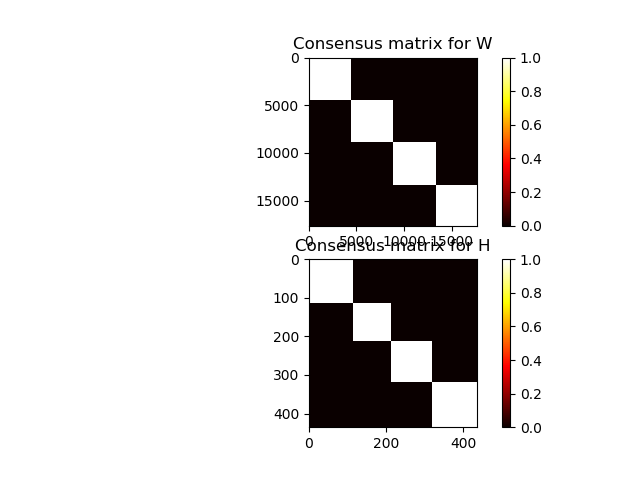
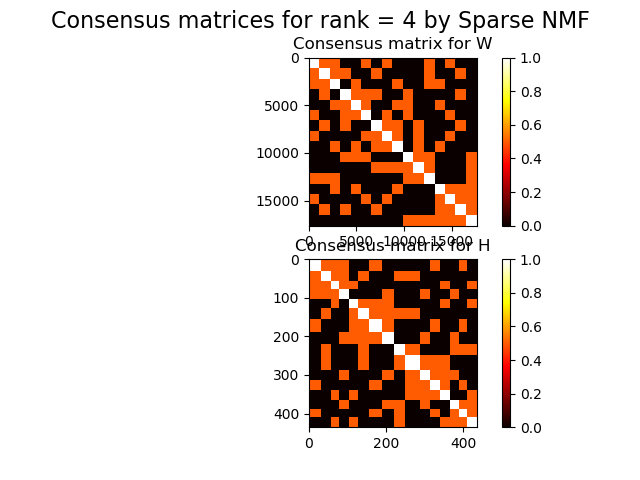
NMF is now more verbose

diff --git a/depmap-sparse/python/fn_SparseNMF.py b/depmap-sparse/python/fn_SparseNMF.py
@@ -6,31 +6,31 @@ class SparseNMF():
 	def __init__(self, X, rank, iterations, beta, sparsity):
 		self.X = X
 		self.K = rank
-		self.iter = iterations
+		self.iterations = iterations
+		self.beta = beta
+		self.sparsity = sparsity
+
+	def initializeWH(self):
 		self.W = pd.DataFrame(np.random.randint(100,size=(self.X.shape[0], self.K)))
 		self.H = pd.DataFrame(np.random.randint(0,100,size=(self.K, self.X.shape[1])))
 		self.W = preprocessing.normalize(self.W)
 		self.A = self.W.dot(self.H)
-		self.beta = beta
-		self.sparsity = sparsity
 		self.one = pd.DataFrame(np.ones((self.X.shape[0], 1)))
 		self.H = self.H.values
-		self.totalerror = 0
-		self.cycle()
-		self.err = self.totalerror/self.iter
-
-	def cycle(self):
-		for run in range(self.iter):
-			self.update()
-			self.calc_error()
 
 	def update(self):
-		self.H = np.multiply(self.H, np.divide(np.dot(preprocessing.normalize(self.W).T, np.multiply(self.X, np.power(self.A, self.beta - 2))), np.dot(self.W.T, np.power(self.A, self.beta - 1)) + self.sparsity))
-		self.A = self.W.dot(self.H)
-		self.W = np.multiply(self.W, np.divide(np.dot(np.multiply(np.power(self.A, self.beta - 2), self.X), self.H.T) + np.multiply(preprocessing.normalize(self.W), np.dot(np.dot(self.one, self.one.T), np.multiply(preprocessing.normalize(self.W), np.dot(np.power(self.A, self.beta - 1), self.H.T)))), np.dot(np.power(self.A, self.beta - 1), self.H.T) + np.multiply(preprocessing.normalize(self.W), np.dot(np.dot(self.one, self.one.T), np.multiply(preprocessing.normalize(self.W), np.dot(np.multiply(np.power(self.A, self.beta - 2), self.X), self.H.T))))))
-		self.W = preprocessing.normalize(self.W)
-		self.A = self.W.dot(self.H)
+		for run in range(self.iterations):
+			print("Update iteration = %i for rank = %i" % (run, self.K))
+			self.H = np.multiply(self.H, np.divide(np.dot(preprocessing.normalize(self.W).T, np.multiply(self.X, np.power(self.A, self.beta - 2))), np.dot(self.W.T, np.power(self.A, self.beta - 1)) + self.sparsity))
+			self.A = self.W.dot(self.H)
+			self.W = np.multiply(self.W, np.divide(np.dot(np.multiply(np.power(self.A, self.beta - 2), self.X), self.H.T) + np.multiply(preprocessing.normalize(self.W), np.dot(np.dot(self.one, self.one.T), np.multiply(preprocessing.normalize(self.W), np.dot(np.power(self.A, self.beta - 1), self.H.T)))), np.dot(np.power(self.A, self.beta - 1), self.H.T) + np.multiply(preprocessing.normalize(self.W), np.dot(np.dot(self.one, self.one.T), np.multiply(preprocessing.normalize(self.W), np.dot(np.multiply(np.power(self.A, self.beta - 2), self.X), self.H.T))))))
+			self.W = preprocessing.normalize(self.W)
+			self.A = self.W.dot(self.H)
 
 	def calc_error(self):
 		self.error = np.mean(np.mean(np.abs(self.X - self.A)))
-		self.totalerror += self.error
+
+	def runNMF(self):
+		self.initializeWH()
+		self.update()
+		self.calc_error()

diff --git a/depmap/python/get-rank.py b/depmap/python/get-rank.py
@@ -1,33 +1,48 @@
 import pandas as pd
 import numpy as np
 import matplotlib.pyplot as plt
-from fn_consensus import *
-from fn_nmf import *
+import os
 
-X = pd.read_csv(r'C:/Users/Vaibhav/nmf/inputs/portal-Avana-2018-06-08-n.csv', index_col=0, header=0, na_values='NaN')
+from fn_NMF import *
+from fn_consensus import *
+
+X = pd.read_csv(r'../../inputs/portal-Avana-2018-06-08-n.csv', index_col=0, header=0, na_values='NaN')
 X = X.fillna(0)
 mX = 1 - X.isnull()
 
-maxit = 1
-runs = 1
+iterations = 3
+trials = 2
+
+print("\nNumber of trials = %i" % trials)
+print("Number of iterations in each trial = %i\n" % iterations)
 
 for rank in range (3,31):
 	cmatrix = CMatrix(X)
 
 	error = 0
 
-	for run in range(runs):
-		jnmf = NMF(X, mX, rank, maxit)
-		error += jnmf.err
-		connW = cmatrix.calcConnectivityW(jnmf.W)
-		connH = cmatrix.calcConnectivityH(jnmf.H)
+	print("Running NMF for rank = %i\n" % rank)
+
+	for run in range(trials):
+		print("\nTrial = %i for rank = %i\n" % (run, rank))
+		nmf = NMF(X, mX, rank, iterations)
+		nmf.runNMF()
+		error += nmf.err
+		print("\nCalculating connectivity matrix for W")
+		connW = cmatrix.calcConnectivityW(nmf.W)
+		print("Calculating connectivity matrix for H")
+		connH = cmatrix.calcConnectivityH(nmf.H)
+		print("\nAdding connectivity matrix to consensus")
 		cmatrix.addConnectivityMatrixtoConsensusMatrix(connW, connH)
 	
-	print("Error for rank %d is %f" % (rank, error))
+	print("\nError for rank %d is %f" % (rank, error))
 
+	print("\nMaking consensus matrix")
 	cmatrix.finalizeConsensusMatrix()
 
+	print("\nReordering connectivity matrix W")
 	cmW = cmatrix.reorderConsensusMatrix(cmatrix.cmW)
+	print("Reordering connectivity matrix H")
 	cmH = cmatrix.reorderConsensusMatrix(cmatrix.cmH)
 
 	plt.subplot(221)
@@ -40,10 +55,13 @@ for rank in range (3,31):
 	plt.title('Consensus matrix for H')
 	plt.colorbar()
 
-	plt.suptitle("Consensus matrices for rank = %d" % (rank), size=16)
+	plt.suptitle("Consensus matrices for rank = %d by NMF" % (rank), size=16)
+
 	savedir = '../consensus-matrices'
 	if not os.path.exists(savedir):
 		os.mkdir(savedir)
+
+	print("\nSaving plots\n")
+	
 	plt.savefig(savedir + "/k = %d" % (rank))
 	plt.clf()
-	#plt.show()

diff --git a/depmap-sparse/python/get-rank.py b/depmap-sparse/python/get-rank.py
@@ -1,36 +1,50 @@
 import pandas as pd
 import numpy as np
 import matplotlib.pyplot as plt
+import os
 
 from fn_SparseNMF import *
 from fn_consensus import *
 
-X = pd.read_csv(r'C:/Users/Vaibhav/nmf/inputs/portal-Avana-2018-06-08-n.csv', index_col=0, header=0)
+X = pd.read_csv(r'../../inputs/portal-Avana-2018-06-08-n.csv', index_col=0, header=0, na_values='NaN')
 X = X.fillna(0)
 
-iterations = 5
+iterations = 3
+trials = 2
+
+print("\nNumber of trials = %i" % trials)
+print("Number of iterations in each trial = %i\n" % iterations)
 
 beta = 3
 sparsity = 10
 
-runs = 5
-
 for rank in range (3,31):
 	error = 0
+
 	consMat = ConsensusMatrix(X)
 
-	for run in range(runs):
-		snmf = SparseNMF(X, rank, iterations, beta, sparsity)
-		error += snmf.err
-		connmatW = consMat.calcConnMatW(snmf.W)
-		connmatH = consMat.calcConnMatH(snmf.H)
-		consMat.calcConsMat(connmatW, connmatH)
+	print("Running Sparse NMF for rank = %i" % rank)
 
+	for run in range(trials):
+		print("\nTrial = %i for rank = %i\n" % (run, rank))
+		nmf = SparseNMF(X, rank, iterations, beta, sparsity)
+		nmf.runNMF()
+		error += nmf.error
+		print("\nCalculating connectivity matrix W")
+		connW = consMat.calcConnMatW(nmf.W)
+		print("Calculating connectivity matrix H")
+		connH = consMat.calcConnMatH(nmf.H)
+		print("\nAdding connectivity matrix")
+		consMat.calcConsMat(connW, connH)
+
+	print("\nError for rank %d is %f" % (rank, error))
+
+	print("\nMaking consensus matrix")
 	consMat.calcAvConsMat()
 
-	print("Error for rank %d is %f" % (rank, error))
-
+	print("\nReordering connectivity matrix W")
 	cmW = consMat.reorderConsensusMatrix(consMat.consMatW)
+	print("Reordering connectivity matrix H")
 	cmH = consMat.reorderConsensusMatrix(consMat.consMatH)
 
 	plt.subplot(211)
@@ -41,9 +55,14 @@ for rank in range (3,31):
 	plt.imshow(cmH, cmap='hot', interpolation='nearest')
 	plt.title('Consensus matrix for H')
 	plt.colorbar()
-	#plt.show()
+
+	plt.suptitle("Consensus matrices for rank = %d by Sparse NMF" % (rank), size=16)
+
 	savedir = '../consensus-matrices'
 	if not os.path.exists(savedir):
 		os.mkdir(savedir)
+
+	print("\nSaving plots\n")
+
 	plt.savefig(savedir + "/k = %d, beta= %d" % (rank, beta))
 	plt.clf()

diff --git a/depmap/python/fn_nmf.py b/depmap/python/fn_nmf.py
@@ -2,31 +2,29 @@ import pandas as pd
 import numpy as np
 
 class NMF():
-	def __init__(self, X, mX, K, maxit):
+	def __init__(self, X, mX, K, iterations):
 		self.X = X
+		self.X_np = X.values
 		self.mX = mX
 		self.K = K
-		self.maxit = maxit
-		self.toterr = 0
+		self.iterations = iterations
 		self.err = 0
-
-		self.initializeWH()
 
 	def initializeWH(self):
 		self.W = pd.DataFrame(np.random.randint(0,100,size=(self.X.shape[0], self.K)), dtype=float)
 		self.H = pd.DataFrame(np.random.randint(0,100,size=(self.K, self.X.shape[1])), dtype=float)
 		self.eps = np.finfo(self.W.values.dtype).eps
 
-		self.update()
-		self.err = self.toterr/self.maxit
-
 	def update(self):
-		for i in range(self.maxit):
+		for run in range(self.iterations):
+			print("Update iteration = %i for rank = %i" % (run, self.K))
 			self.H = np.multiply(self.H, np.divide(np.dot(self.W.T, np.multiply(self.mX, self.X)), np.dot(self.W.T, np.multiply(self.mX, np.dot(self.W, self.H) + self.eps))))
 			self.W = np.multiply(self.W, np.divide(np.dot(np.multiply(self.mX, self.X), self.H.T), (np.dot(np.multiply(self.mX, np.dot(self.W, self.H)), self.H.T) + self.eps)))
 
-			self.error(i)
-
-	def error(self, i):
+	def error(self):
 		self.err = np.mean(np.mean(np.abs(self.X-np.dot(self.W, self.H))))
-		self.toterr += self.err 
+
+	def runNMF(self):
+		self.initializeWH()
+		self.update()
+		self.error()
